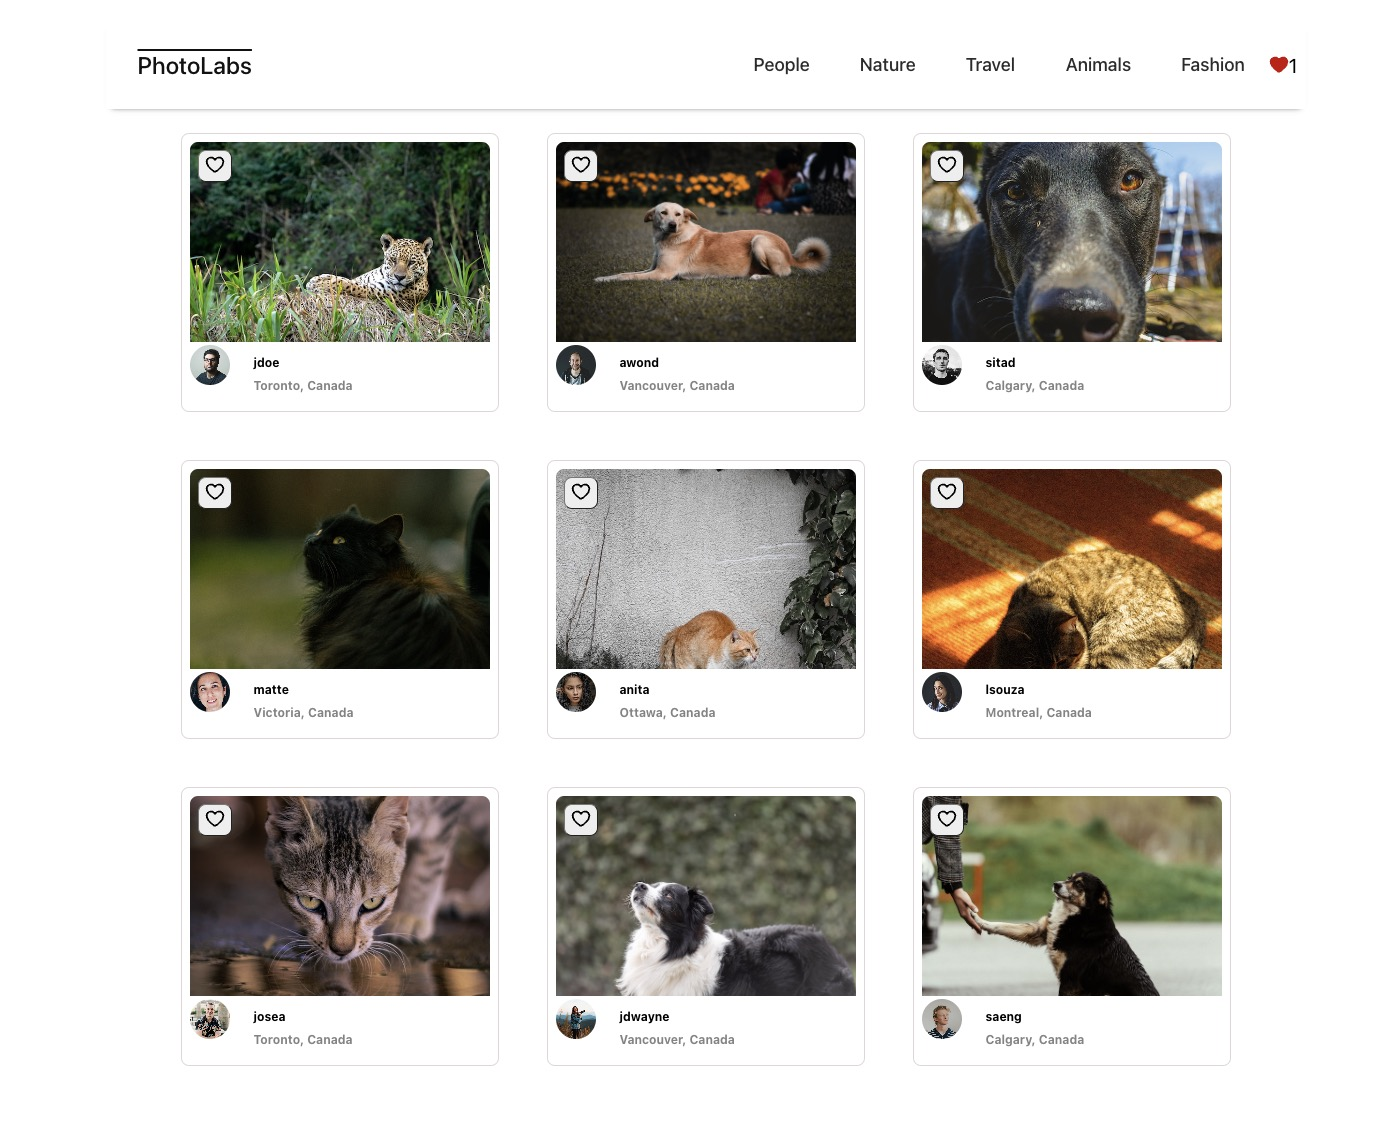
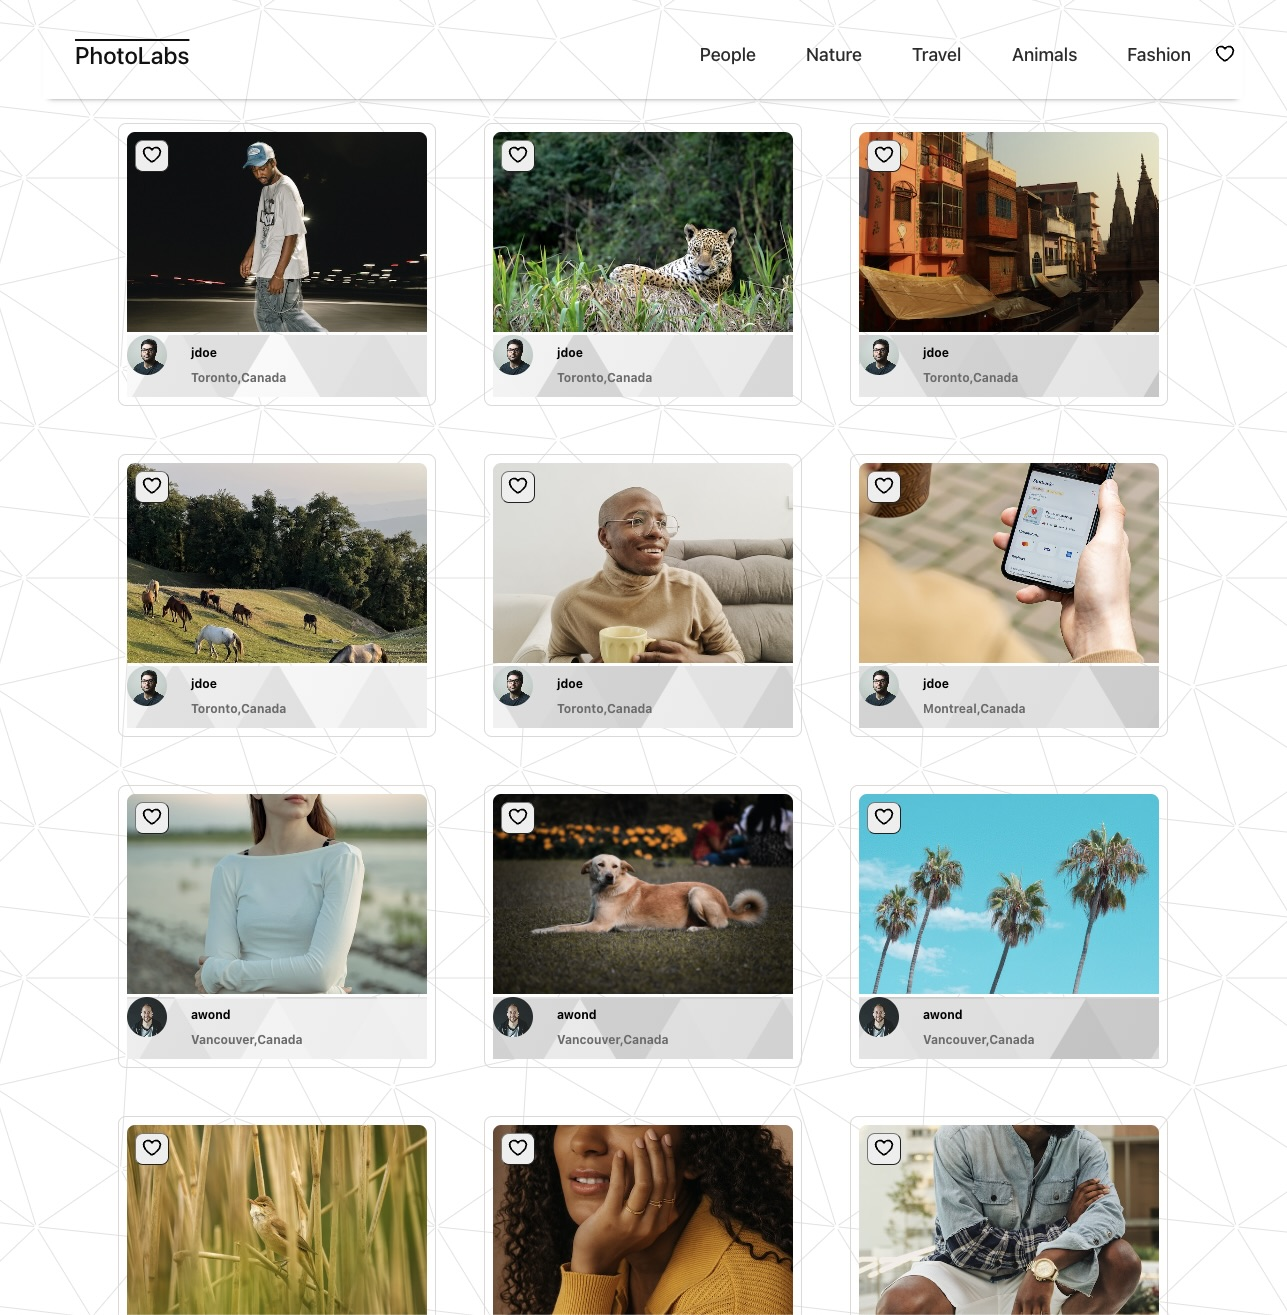
updated readme photos, added state to persist throughout refresh

diff --git a/frontend/src/hooks/useApplicationData.js b/frontend/src/hooks/useApplicationData.js
@@ -50,7 +50,10 @@ function reducer(state, action) {
 
 
 export const useApplicationData = () => {
-  const [state, dispatch] = useReducer(reducer, initialState);
+  const [state, dispatch] = useReducer(reducer, initialState, () => {
+    const localData = localStorage.getItem('photoAppData');
+    return localData ? JSON.parse(localData) : initialState;
+  });
 
   const handlePhotoClick = (photo) => {
     dispatch({ type: 'OPEN_MODAL', photo });
@@ -82,6 +85,10 @@ export const useApplicationData = () => {
     .then((data) => dispatch({ type: 'SET_TOPIC_DATA', payload: data }))
     .catch((error) => console.error('Error fetching topic data:', error));
   }, []);
+
+  useEffect(() => {
+    localStorage.setItem('photoAppData', JSON.stringify(state));
+  }, [state]);
   
   const fetchPhotosByTopic = (topicId) => {
     fetch(`http://localhost:8001/api/topics/photos/${topicId}`)

diff --git a/frontend/src/components/PhotoFavButton.jsx b/frontend/src/components/PhotoFavButton.jsx
@@ -16,7 +16,7 @@ function PhotoFavButton({ photo, userFavourite, setUserFavourite }) {
 
   return (
     <button className="photo-list__fav-icon" onClick={handleClick}>
-      <FavIcon isFavorited={isFavorited} className="photo-list__fav-icon-svg" />
+      <FavIcon className="photo-list__fav-icon-svg" isFavorited={isFavorited} />
     </button>
   );
 };
